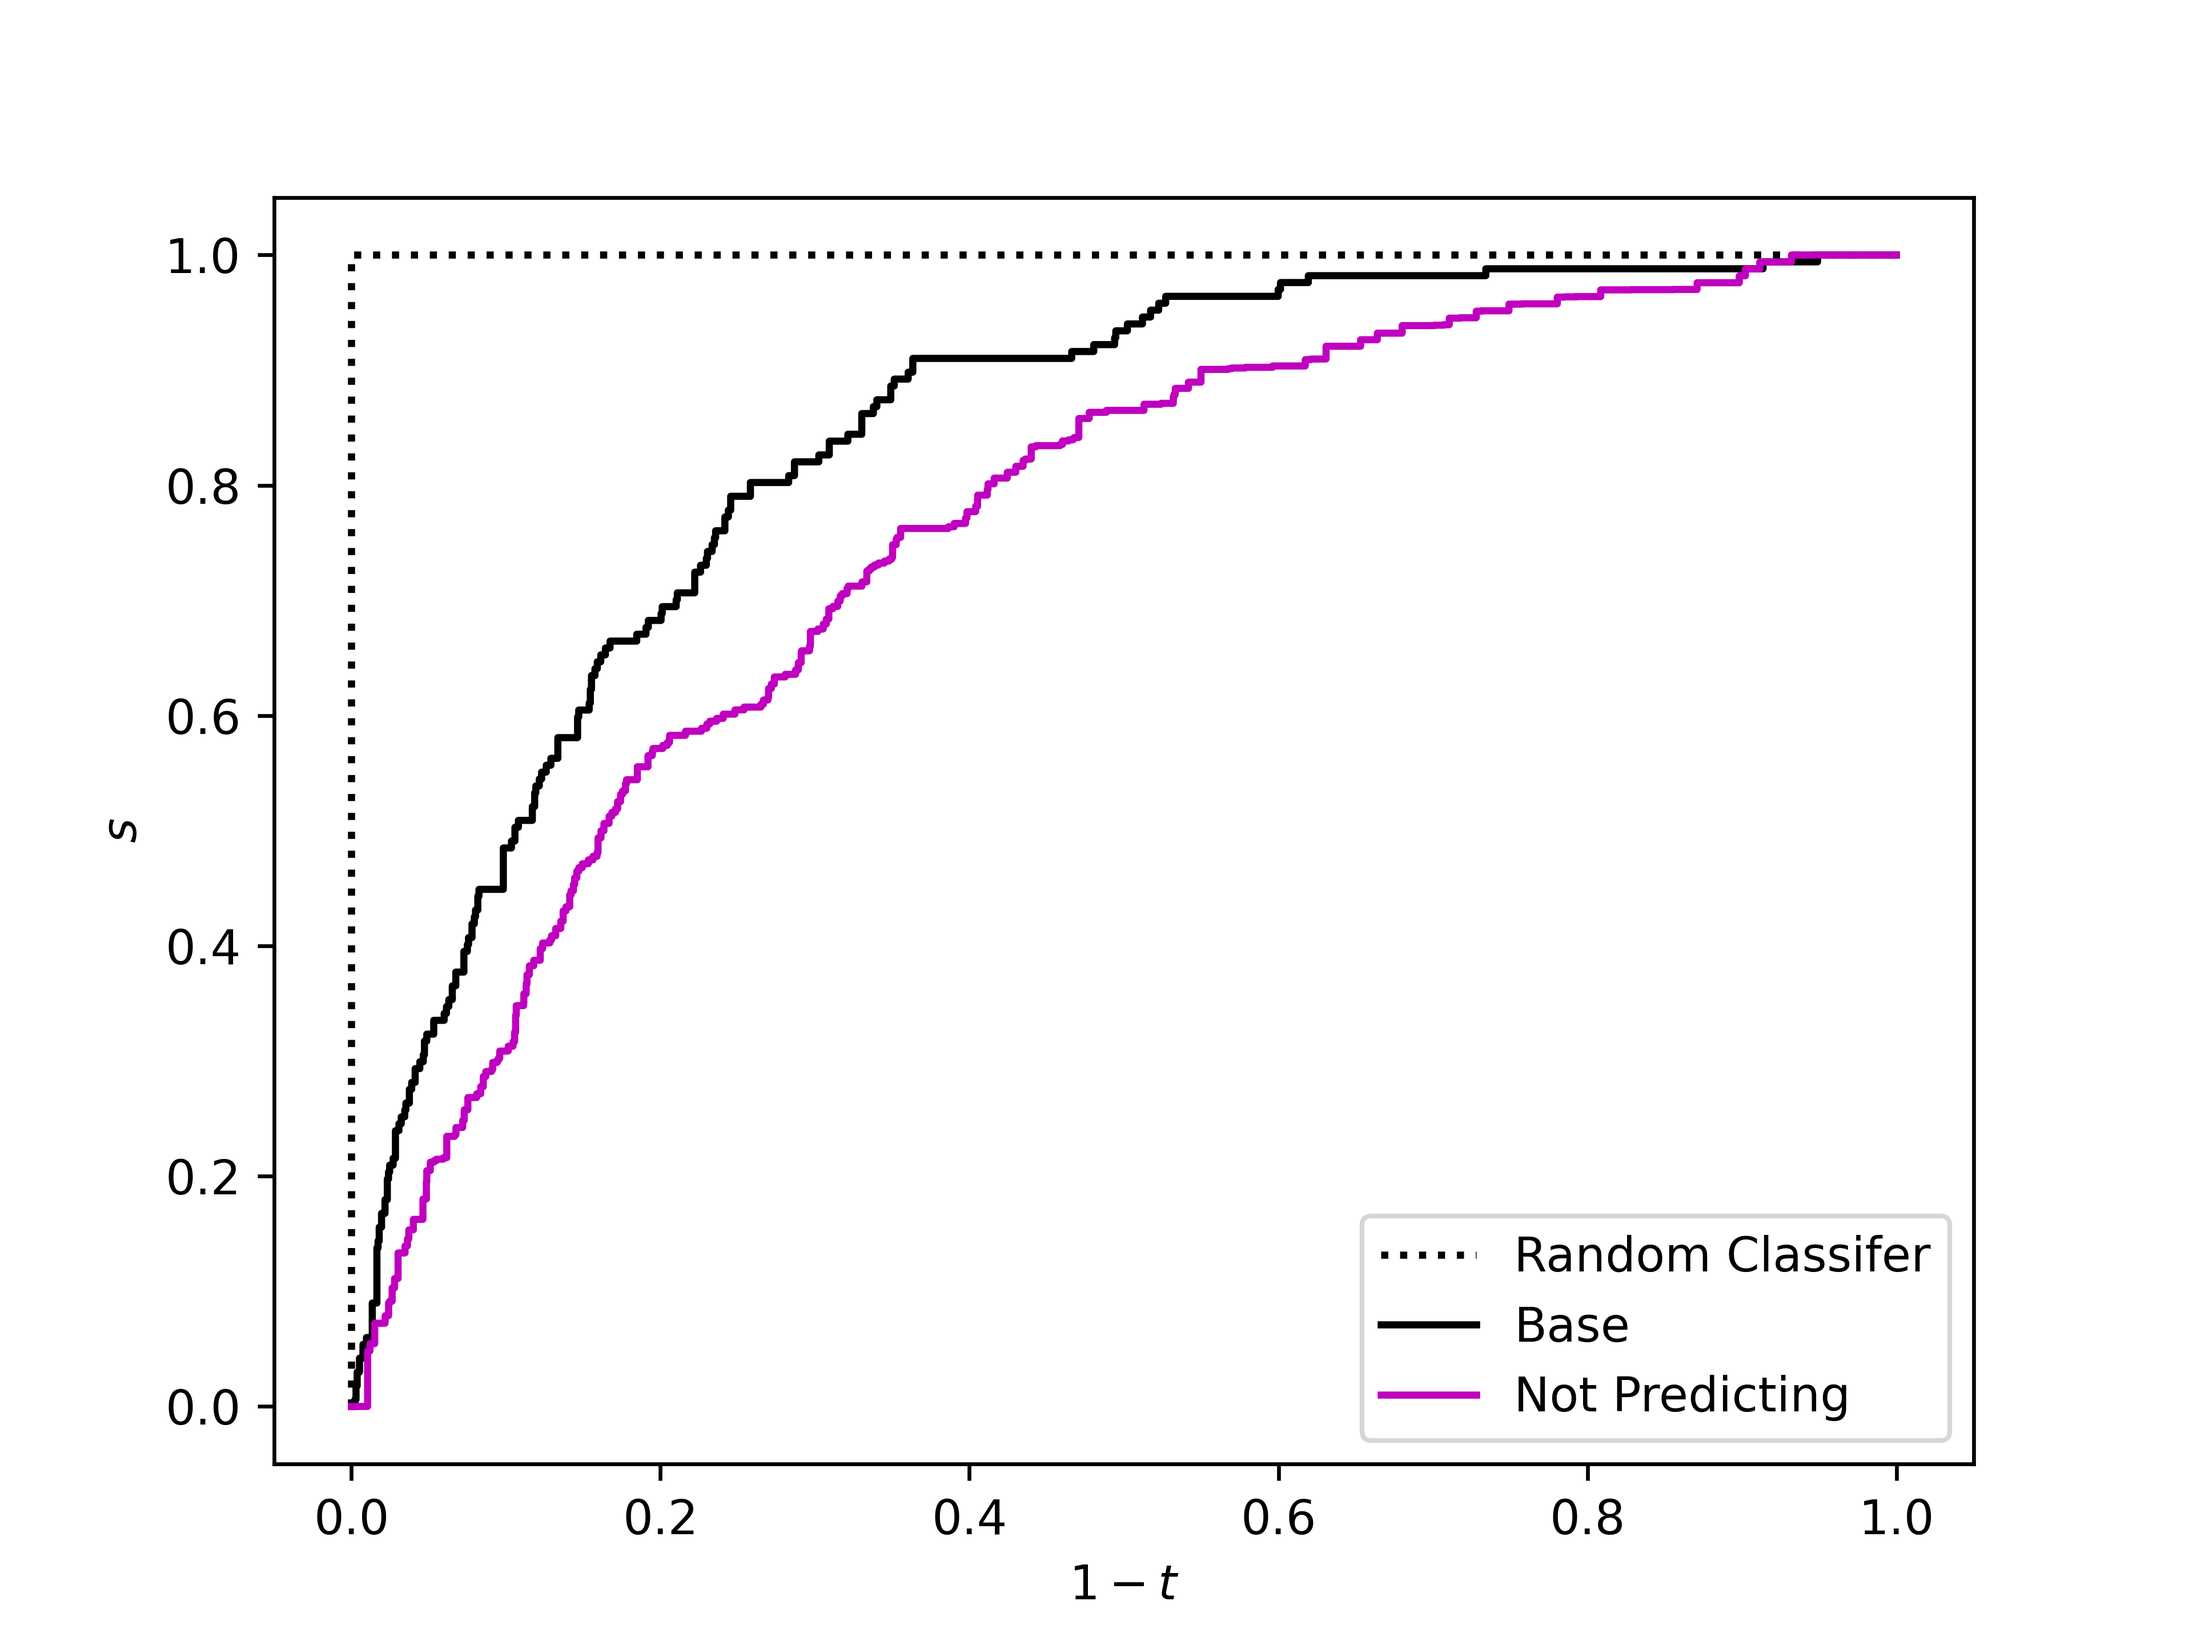
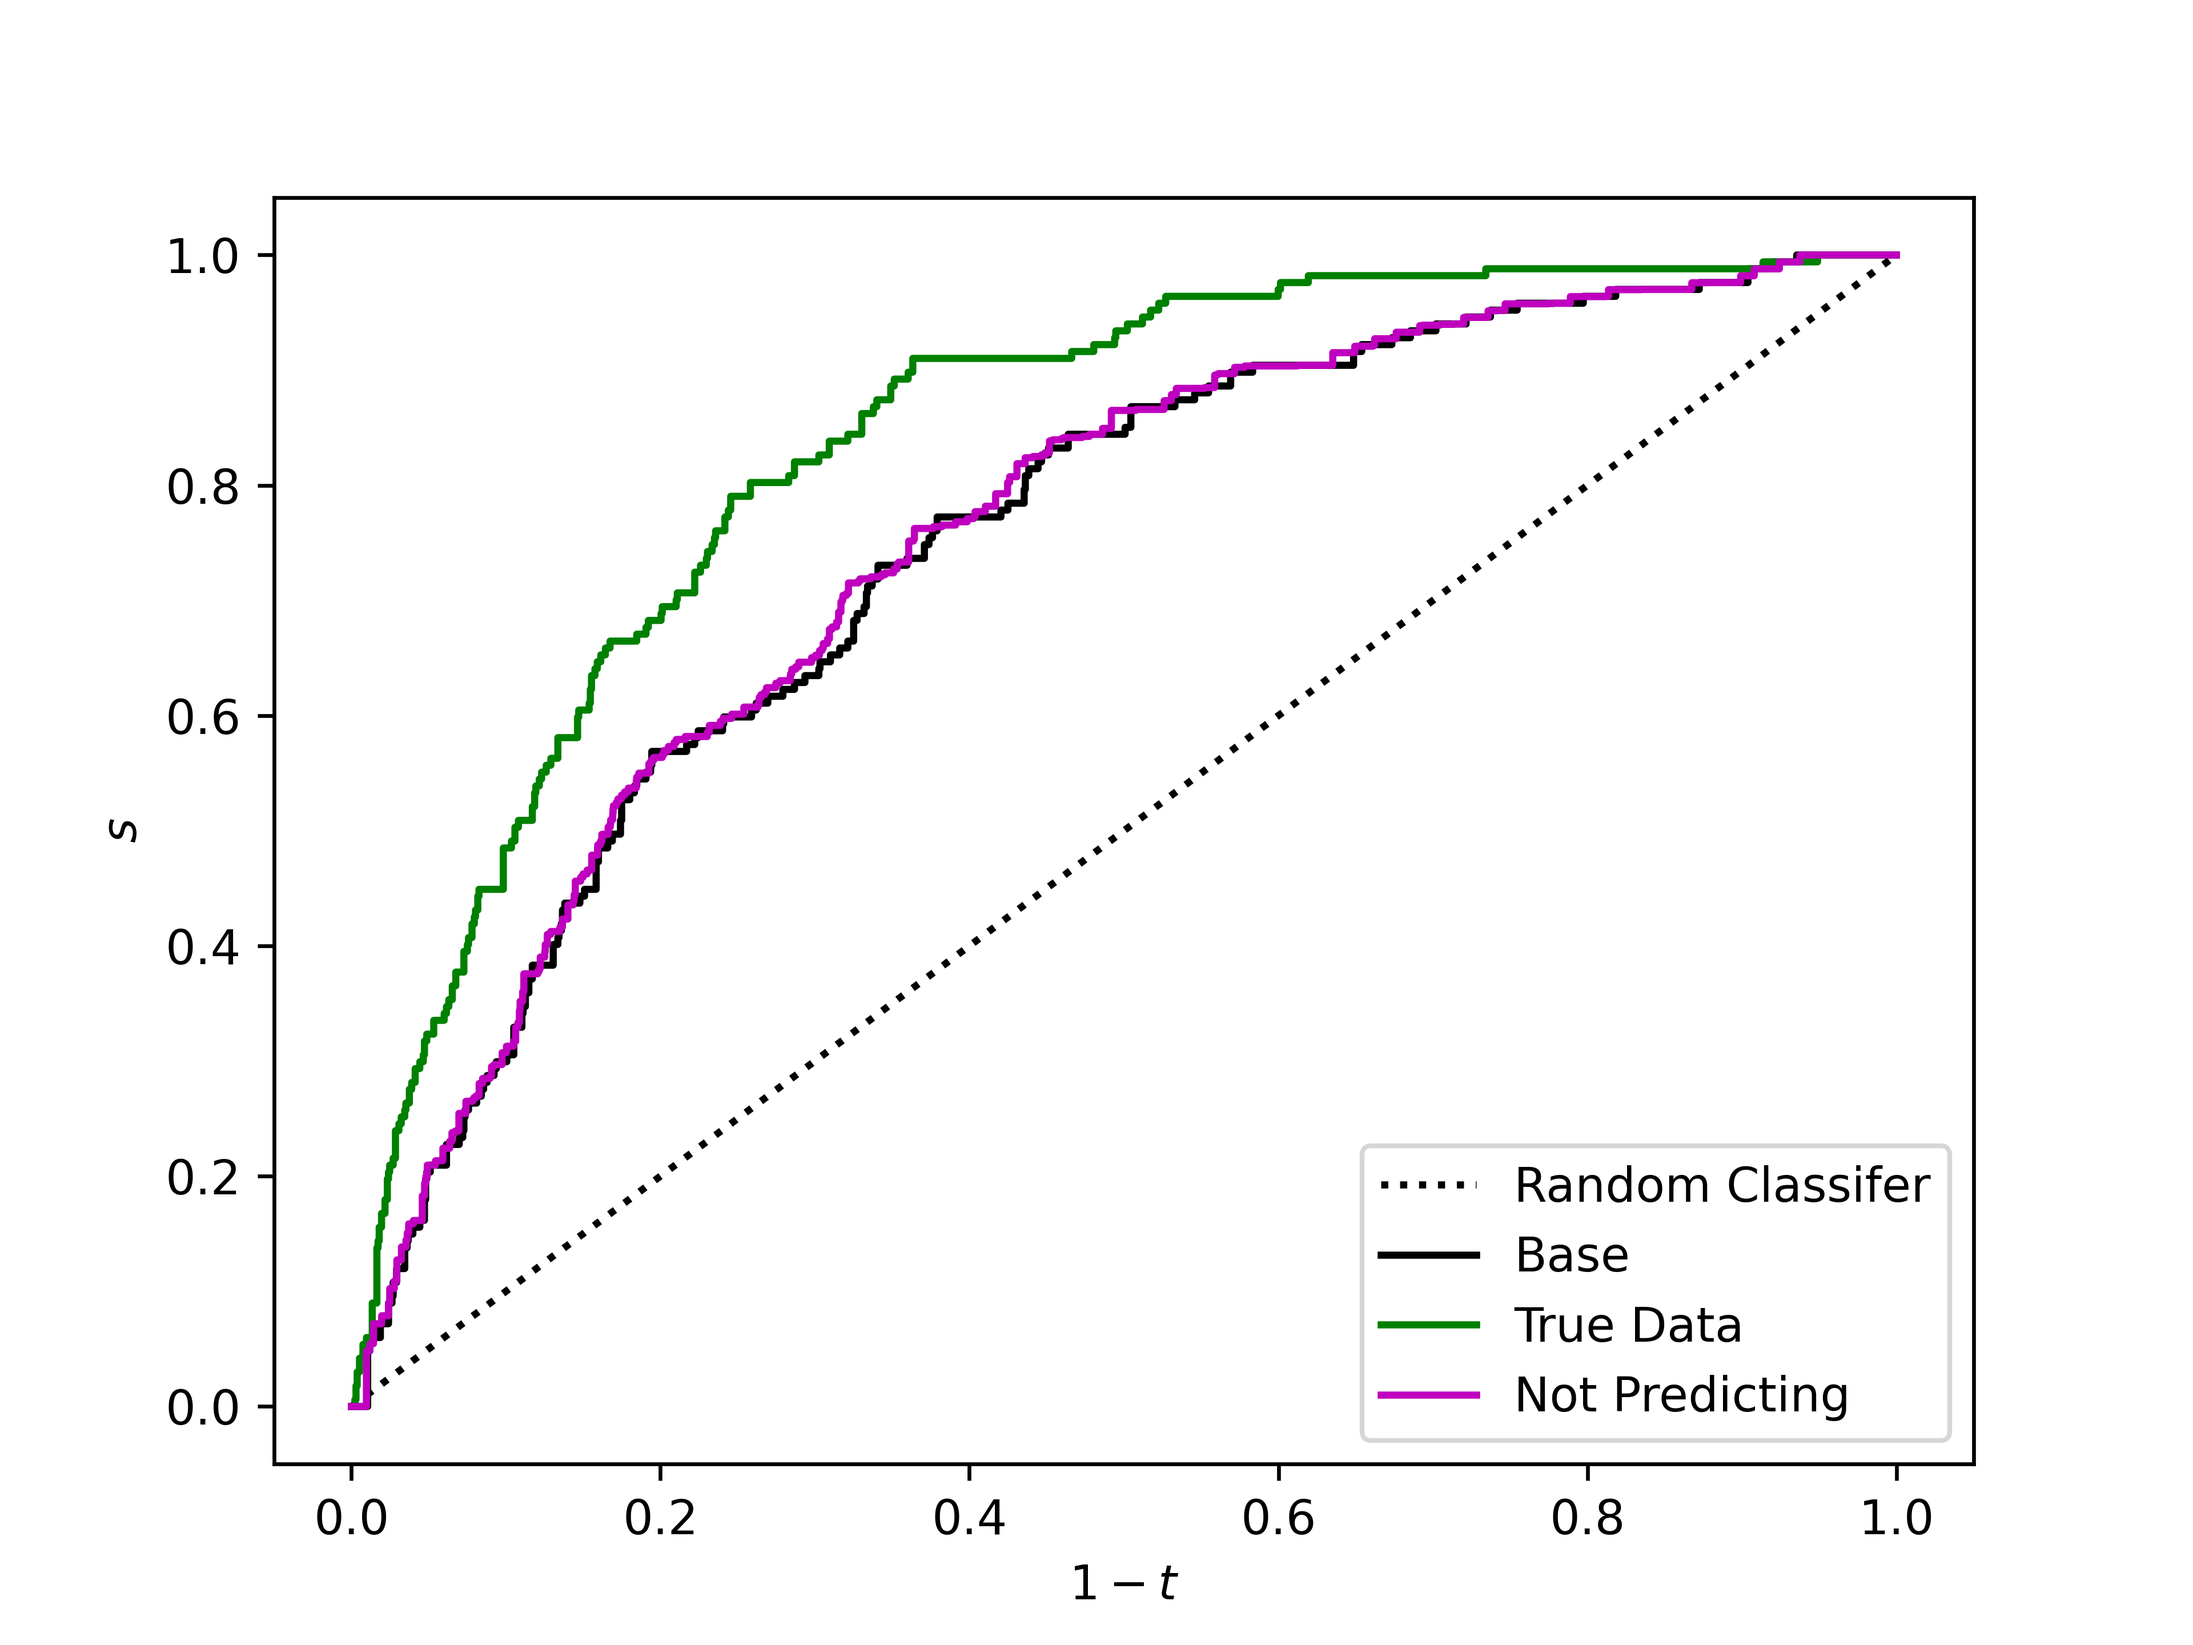
05FEB.02

diff --git a/whitewine.py b/whitewine.py
@@ -25,16 +25,19 @@ def intervalise(val,eps):
     return pba.I(val - r*eps, val + (1-r)*eps)
 
 def midpoints(data):
+    n_data = data.copy()
     for c in data.columns:
         for i in data.index:
             if data.loc[i,c].__class__.__name__ == 'Interval':
-                data.loc[i,c] = data.loc[i,c].midpoint()
-    return data
+                n_data.loc[i,c] = data.loc[i,c].midpoint()
+            
+    return n_data
+
     
 # Import the data
 wine_data = pd.read_csv('winequality-red.csv',index_col = None)
 
-# Split the data into test/train factors and result and generate uncertain points
+# Split the data into test/train factors and result
 random.seed(1111) # for reproducability
 
 train_data_index = random.sample([i for i in wine_data[wine_data['quality'] <= 6].index], k = 50) + random.sample([i for i in wine_data[wine_data['quality'] >= 7].index ], k = 50)
@@ -47,7 +50,7 @@ test_results = wine_data.loc[test_data_index,'quality'] >= 7
 train_results = wine_data.loc[train_data_index,'quality'] >= 7
 
 # Intervalise data
-eps = {"fixed acidity":0.5,"pH":0.1}
+eps = {"fixed acidity":0.1,"pH":0.1}
 np.random.seed(0)
 UQdata = pd.DataFrame({
     **{"fixed acidity":[intervalise(train_data.loc[i,"fixed acidity"],eps["fixed acidity"]) for i in train_data.index],
@@ -65,14 +68,18 @@ base.fit(MDdata.to_numpy(),train_results.to_numpy())
 # Classify test data
 base_predict = base.predict(test_data)
 
+# True model 
+no_uq_model = LogisticRegression(max_iter = 1000)
+no_uq_model.fit(train_data,train_results)
+no_uq_predict = no_uq_model.predict(test_data)
+
 ## fit interval model
 uq_models = int_logistic_regression(UQdata,train_results)
 
 # Test estimated vs Monte Carlo
 ir, oor = check_int_MC(uq_models,UQdata,train_results,1000,test_data)
-print(ir,oor)
-# with open('whitewine-MCtest.out','w') as f:
-#     print('in bounds %i,%.3f\nout %i,%.3f'%(ir,(ir/(ir+oor)),oor,(oor/(ir+oor))),file = f)
+with open('runinfo/whitewine-MCtest.out','w') as f:
+    print('in bounds %i,%.3f\nout %i,%.3f'%(ir,(ir/(ir+oor)),oor,(oor/(ir+oor))),file = f)
 
 # Classify test data
 test_predict = pd.DataFrame(columns = uq_models.keys())
@@ -86,8 +93,8 @@ for i in test_predict.index:
 
 
 ## Get confusion matrix
-with open('whitewine-cm.out','w') as f:
-    a,b,c,d = generate_confusion_matrix(test_results,base_predict)
+with open('runinfo/whitewine-cm.out','w') as f:
+    a,b,c,d = generate_confusion_matrix(test_results,no_uq_predict)
     print('TP=%i\tFP=%i\nFN=%i\tTN=%i' %(a,b,c,d),file = f)
 
     # Calculate sensitivity and specificity
@@ -114,12 +121,14 @@ with open('whitewine-cm.out','w') as f:
     print('tau = %3f' %(fff/(bbb+ddd+fff)),file = f)
 
 ### ROC CURVE
-s,fpr = ROC(model = base, data = test_data, results = test_results)
+s_b,fpr_b = ROC(model = base, data = test_data, results = test_results)
+s,fpr = ROC(model = no_uq_model, data = test_data, results = test_results)
 s_t, fpr_t, Sigma, Tau, Nu = UQ_ROC_alt(uq_models, test_data, test_results)
-plt.step([0,1],[0,1],'k:',label = 'Random Classifer')
+plt.plot([0,1],[0,1],'k:',label = 'Random Classifer')
 plt.xlabel('$1-t$')
 plt.ylabel('$s$')
-plt.step(fpr,s,'k', label = 'Base')
+plt.step(fpr_b,s_b,'k', label = 'Base')
+plt.step(fpr,s,'g', label = 'True Data')
 
 
 steps = 1001
@@ -135,7 +144,7 @@ plt.savefig('../paper/figs/whitewine_ROC.png',dpi = 600)
 
 plt.clf()
 
-with open('whitewine-auc.out','w') as f:
+with open('runinfo/whitewine-auc.out','w') as f:
     print('NO UNCERTAINTY: %.4f' %auc(s,fpr), file = f)
     print('THROW: %.4f' %auc(s_t,fpr_t), file = f)
 

diff --git a/ex1_int.py b/ex1_int.py
@@ -23,11 +23,13 @@ def intervalise(val,eps):
     return pba.I(val - r*eps, val + (1-r)*eps)
 
 def midpoints(data):
+    n_data = data.copy()
     for c in data.columns:
         for i in data.index:
             if data.loc[i,c].__class__.__name__ == 'Interval':
-                data.loc[i,c] = data.loc[i,c].midpoint()
-    return data
+                n_data.loc[i,c] = data.loc[i,c].midpoint()
+            
+    return n_data
 
 # set seed to ensure same data
 np.random.seed(10)
@@ -58,7 +60,7 @@ MDdata = midpoints(UQdata)
 
 # Fit base model
 base = LogisticRegression(max_iter = 1000)
-base.fit(MDdata.to_numpy(),train_results.to_numpy())
+base.fit(MDdata.to_numpy(),results.to_numpy())
 
 # Classify test data
 base_predict = base.predict(test_data)
@@ -68,7 +70,7 @@ uq_models = int_logistic_regression(UQdata,results)
 
 ## Test estimated vs Monte Carlo
 ir, oor = check_int_MC(uq_models,UQdata,results,1000,test_data)
-with open('ex1_int_MCtest.out','w') as f:
+with open('runinfo/ex1_int_MCtest.out','w') as f:
     print('in bounds %i,%.3f\nout %i,%.3f'%(ir,(ir/(ir+oor)),oor,(oor/(ir+oor))),file = f)
 
 # Classify test data
@@ -115,7 +117,7 @@ plt.savefig('figs/ex1_int.png',dpi = 600)
 plt.clf()
 
 ## Get confusion matrix
-with open('ex1_int_cm.out','w') as f:
+with open('runinfo/ex1_int_cm.out','w') as f:
     a,b,c,d = generate_confusion_matrix(test_results,base_predict)
     print('TP=%i\tFP=%i\nFN=%i\tTN=%i' %(a,b,c,d),file = f)
 
@@ -163,7 +165,7 @@ plt.savefig('../paper/figs/ex1_int_ROC.png',dpi = 600)
 
 plt.clf()
 
-with open('ex1_int_auc.out','w') as f:
+with open('runinfo/ex1_int_auc.out','w') as f:
     print('NO UNCERTAINTY: %.4f' %auc(s,fpr), file = f)
     print('THROW: %.4f' %auc(s_t,fpr_t), file = f)
 

diff --git a/LRF.py b/LRF.py
@@ -6,6 +6,16 @@ from tqdm import tqdm
 import pba
 import random
 
+def midpoints(data):
+    n_data = data.copy()
+    for c in data.columns:
+        for i in data.index:
+            if data.loc[i,c].__class__.__name__ == 'Interval':
+                n_data.loc[i,c] = data.loc[i,c].midpoint()
+            
+    return n_data
+
+
 def generate_confusion_matrix(results,predictions,throw = False):
 
     a = 0
@@ -78,14 +88,13 @@ def find_threshold(model,data,column):
 
 def get_bounds(UQdata,results,column,binary = False):
 
-    data = pd.DataFrame({c: [(i.Left+i.Right)/2 if i.__class__.__name__ == 'Interval' else i for i in UQdata[c]] for c in UQdata.columns},index = UQdata.index) # assume midpoints everywhere else
+    data = pd.DataFrame({c: [i.midpoint() if i.__class__.__name__ == 'Interval' else i for i in UQdata[c]] for c in UQdata.columns},index = UQdata.index) # assume midpoints everywhere else
     
     bounds = {
         'minimum': data.copy(),    
         'maximum': data.copy()
     }
-    data.to_csv('f.txt')    
-    UQdata.to_csv('f2.txt')
+
 
     for i in UQdata.index:
         if UQdata.loc[i,column].__class__.__name__ == "Interval":

diff --git a/heart.py b/heart.py
@@ -51,7 +51,7 @@ uq_models = int_logistic_regression(UQdata,train_results)
 
 ## Test estimated vs Monte Carlo
 # ir, oor = check_int_MC(uq_models,UQdata,train_results,1000,test_data)
-# with open('heart-MCtest.out','w') as f:
+# with open('runinfo/heart-MCtest.out','w') as f:
 #     print('in bounds %i,%.3f\nout %i,%.3f'%(ir,(ir/(ir+oor)),oor,(oor/(ir+oor))),file = f)
 
 # Classify test data
@@ -66,7 +66,7 @@ for i in test_predict.index:
 
 
 ## Get confusion matrix
-with open('heart-cm.out','w') as f:
+with open('runinfo/heart-cm.out','w') as f:
     a,b,c,d = generate_confusion_matrix(test_results,base_predict)
     print('TP=%i\tFP=%i\nFN=%i\tTN=%i' %(a,b,c,d),file = f)
 
@@ -115,7 +115,7 @@ plt.savefig('../paper/figs/heart_ROC.png',dpi = 600)
 
 plt.clf()
 
-with open('heart-auc.out','w') as f:
+with open('runinfo/heart-auc.out','w') as f:
     print('NO UNCERTAINTY: %.4f' %auc(s,fpr), file = f)
     print('THROW: %.4f' %auc(s_t,fpr_t), file = f)
 

diff --git a/ex1_UC.py b/ex1_UC.py
@@ -107,7 +107,7 @@ plt.savefig('figs/ex1_UC.png',dpi = 600)
 plt.clf()
 
 ## Get confusion matrix
-with open('ex1_UC_cm.out','w') as f:
+with open('runinfo/ex1_UC_cm.out','w') as f:
     a,b,c,d = generate_confusion_matrix(test_results,base_predict)
     print('TP=%i\tFP=%i\nFN=%i\tTN=%i' %(a,b,c,d),file = f)
 
@@ -173,7 +173,7 @@ plt.savefig('../paper/figs/ex1_UC_ROC.png',dpi = 600)
 
 # plt.clf()
 
-with open('ex1_UC_auc.out','w') as f:
+with open('runinfo/ex1_UC_auc.out','w') as f:
     print('NO UNCERTAINTY: %.4f' %auc(s,fpr), file = f)
     # print('NO UNCERTAINTY: %.4f' %roc_auc_score(base.predict_proba(test_data)[:,1],test_results), file = f)
     # print('LOWER BOUND: %.4f' %auc(Ymin,Xmin), file = f)

diff --git a/redwine.py b/redwine.py
@@ -46,7 +46,7 @@ for i in test_predict.index:
 
 
 ## Get confusion matrix
-with open('redwine-cm.out','w') as f:
+with open('runinfo/redwine-cm.out','w') as f:
     a,b,c,d = generate_confusion_matrix(test_results,base_predict)
     print('TP=%i\tFP=%i\nFN=%i\tTN=%i' %(a,b,c,d),file = f)
 
@@ -95,7 +95,7 @@ plt.savefig('../paper/figs/redwine_ROC.png',dpi = 600)
 
 # plt.clf()
 
-with open('redwine-auc.out','w') as f:
+with open('runinfo/redwine-auc.out','w') as f:
     print('NO UNCERTAINTY: %.4f' %auc(s,fpr), file = f)
     # print('NO UNCERTAINTY: %.4f' %roc_auc_score(base.predict_proba(test_data)[:,1],test_results), file = f)
     # print('LOWER BOUND: %.4f' %auc(Ymin,Xmin), file = f)
